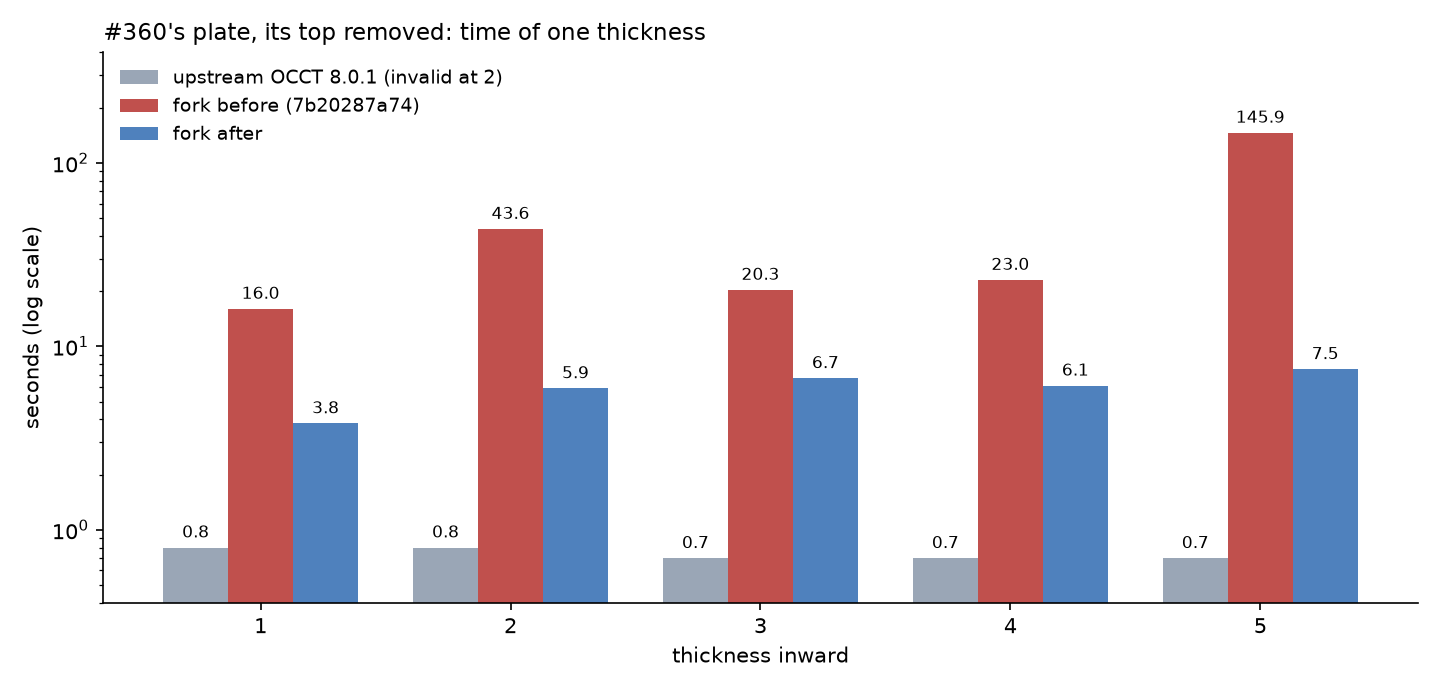
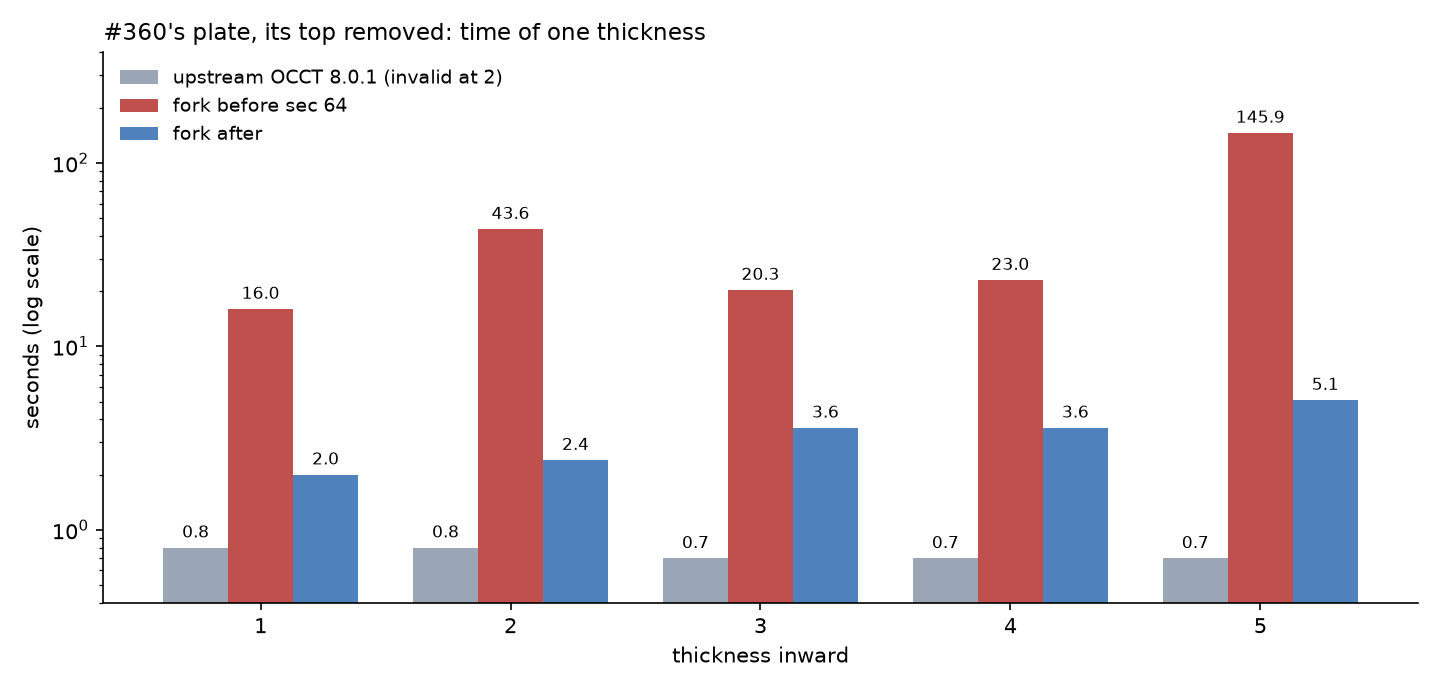
thickness: sec 64 -- edges far apart not measured; #360's row brought up to date
Claude-Session: https://claude.ai/code/session_0178dkVm1ZJ8WVXpnUnXLoWz

diff --git a/thickness/pictures/mkpage.py b/thickness/pictures/mkpage.py
@@ -81,7 +81,7 @@ SUMMARY = {
     60: "#360's plate, square holes 4.3 apart and 2.5 from its outline, the top removed 4 inward: refused, as every plate whose holes are nearer each other or the outline than twice the thickness. There the offsets of a wall's two sides pass each other and the strip between is no pocket, which the edges' orientations say and the loops never read. A thick solid with no valid answer is made once more with the wires of planar faces taken by the way their edges run; that answer is kept only where it is valid and crosses itself nowhere.",
     61: "Four square holes in a square, the walls between them thinner than twice the thickness both ways, and #360's plate 2 inward: both refused, by two faults in sec 60's second way. The rounded corners between walls are cylinders, which it left to the search, and a corner handed its wall the wrong piece of the edge they share; and the point that tells whether a region lies within the removed face was taken off a chord, which beside a rounded corner lies on the arc's other side. Cylinders taken less than a turn round are read by regions too, and the point is taken off the edge itself.",
     62: "Round holes nearer each other, or the outline, than twice the thickness: invalid, where upstream is right. A round hole's wall is a whole cylinder with its seam, which sec 60's second way did not read. It does now: a region runs on across the seam, and where the face lies along the seam it is parted there. And a cut point given a whole turn off its edge's range, on a circle two sections share, is brought onto the edge. Ten plates with round holes, each to upstream's volume to the digit.",
-    63: "#360's plate 5 inward, half its thickness: refused. Where a hole corner's offset meets the removed top it leaves an arc, which the corner's own face took whole and the top's rim cut in two. The record of what the arc became then held the arc and both pieces, the corner took all three, and with its top edge twice over the whole offset came apart. The pieces now take the place of the edge whole. Mended, that let through a result it had held back by accident: a cylinder with a slot, the slot's ceiling removed outward, a closed shell of negative volume (upstream gives the input back, invalid). A thick solid of negative volume, with a face removed, is now refused, and the second way makes the right one. Upstream makes the plate, to the same volume. The figure is sec 64's: the search that gave up on this plate after two minutes and 5 GB is no longer begun where it will run out of steps, and the plate takes 8 s, not 146; no result changes.",
+    63: "#360's plate 5 inward, half its thickness: refused. Where a hole corner's offset meets the removed top it leaves an arc, which the corner's own face took whole and the top's rim cut in two. The record of what the arc became then held the arc and both pieces, the corner took all three, and with its top edge twice over the whole offset came apart. The pieces now take the place of the edge whole. Mended, that let through a result it had held back by accident: a cylinder with a slot, the slot's ceiling removed outward, a closed shell of negative volume (upstream gives the input back, invalid). A thick solid of negative volume, with a face removed, is now refused, and the second way makes the right one. Upstream makes the plate, to the same volume. The figure is sec 64's: the search that gave up on this plate after two minutes and 5 GB is no longer begun where it will run out of steps, and edges far apart are no longer measured against each other; the plate takes 5 s, not 146, and no result changes.",
 }
 
 # Pictures of a section made by make_fix_pictures.sh (a C++ driver of the fix,

diff --git a/thickness/pictures/search_time.py b/thickness/pictures/search_time.py
@@ -16,13 +16,13 @@ import matplotlib.pyplot as plt
 DEPTHS = ["1", "2", "3", "4", "5"]
 UPSTREAM = [0.8, 0.8, 0.7, 0.7, 0.7]
 BEFORE = [16.0, 43.6, 20.3, 23.0, 145.9]
-AFTER = [3.8, 5.9, 6.7, 6.1, 7.5]
+AFTER = [2.0, 2.4, 3.6, 3.6, 5.1]
 
 fig, ax = plt.subplots(figsize=(9.6, 4.6), dpi=150)
 width = 0.26
 xs = range(len(DEPTHS))
 series = (("upstream OCCT 8.0.1 (invalid at 2)", UPSTREAM, "#9aa6b6"),
-          ("fork before (7b20287a74)", BEFORE, "#c0504d"),
+          ("fork before sec 64", BEFORE, "#c0504d"),
           ("fork after", AFTER, "#4f81bd"))
 for k, (label, values, color) in enumerate(series):
     bars = ax.bar([x + (k - 1) * width for x in xs], values, width, label=label, color=color)

diff --git a/occ-issues/README.md b/occ-issues/README.md
@@ -55,7 +55,7 @@ the table above come first:
 | 309 | fixed (see above) |
 | 333 | no crash; Sketch006 "No planar face in AttachEngine3D" (its support remapped to a curved face) |
 | 334 | no crash; Draft003 invalid, Body invalid. Draft001 and Draft003, recomputed alone, are **refused now** (`ca766a8a92`): a drafted ledge whose corner a bevel touches needs a new edge, which a draft cannot make, and it gave an invalid shape; see `../draft/` |
-| 360 | not finished: the recompute ran 25 min and the scan was stopped for memory on the 8 GB box. **Fillet008's spike fixed** (2026-10-23 check): made since `fb9200b0fd`, upstream 8.0.1 still makes it; the stored `Pad016` has a vertex at tolerance 37.2 (old build), recomputed now 1e-7. `../fillet/`, "#360" **Rescan 2026-11-10**: the document's `Thickness` (the plate `Mirrored`, 10 thick with square holes 4.3 apart and 2.5 from the outline, Face5 removed, 4 inward, the Arc join, Intersection on) was refused by the fork; the stored shape and upstream's 8.0.1 are 38747.1395. The chain's first commit breaks it (bisected), and with it every plate whose holes are nearer each other, or the outline, than twice the thickness. **Fixed**: made once more with the loops' wires taken by the way their edges run where the first way has no valid answer -- 38747.1395, as stored (`../thickness/`, sec 60). Left there: the same plate 2 inward, refused |
+| 360 | not finished: the recompute ran 25 min and the scan was stopped for memory on the 8 GB box. **Fillet008's spike fixed** (2026-10-23 check): made since `fb9200b0fd`, upstream 8.0.1 still makes it; the stored `Pad016` has a vertex at tolerance 37.2 (old build), recomputed now 1e-7. `../fillet/`, "#360" **Rescan 2026-11-10**: the document's `Thickness` (the plate `Mirrored`, 10 thick with square holes 4.3 apart and 2.5 from the outline, Face5 removed, 4 inward, the Arc join, Intersection on) was refused by the fork; the stored shape and upstream's 8.0.1 are 38747.1395. The chain's first commit breaks it (bisected), and with it every plate whose holes are nearer each other, or the outline, than twice the thickness. **Fixed**: made once more with the loops' wires taken by the way their edges run where the first way has no valid answer -- 38747.1395, as stored (`../thickness/`, sec 60). **2026-11-11**: the same plate is made 2, 3 and 5 inward too (33213.1056, 36527.3399, 40288.2902; sec 61 and 63), and in 4 to 8 s where it took 20 to 146 (sec 64; upstream takes under a second, and is invalid at 2) |
 | 474 | no crash; Fillet003 and four sketches in error **Rescan 2026-10-25** (`d602360242`): Fillet, Fillet001, Fillet002 valid; Fillet003 errs because its edge reference is lost (`?Edge41`), Sketch017's attachment failing upstream ("No planar face") -- a document error, not the fillet's; on its stored base it is a suite case (`../fillet/`). |
 | 523 | Fillet invalid -- **fixed**, `../fillet/` |
 | 631 | valid (10005.3404, alt 42806.4887): wrong-but-valid needs a geometric check. **Fixed** (2026-10-24, `2bde18d4b5`): the Fillet (15, the loft-pad joint, `Edge18` of the loft) bulged out of the pad's side -- its end on the loft's side, a plane made a B-spline, lay past the B-spline's bounds and went to a plate; now 9919.5607, the volume of the loft with plane faces. The alt document (four fillets, r 39 to 49, on an S-bent bar's bends) is unchanged, 42806.4889, and renders clean. `../fillet/`, "A face's B-spline bounds" **2026-11-09**: chamfers on the arm (Fillet002's input) refused at every size where the fillet was made, and wrong where made (0.52 to 1.37 wide at 0.8): the chamfer's guide was bent off the edge by the adjustment of its other end (`1420e35a51`). `../fillet/`, "A chamfer's guide bent at its other end" |

diff --git a/thickness/README.md b/thickness/README.md
@@ -2733,22 +2733,34 @@ made between the starts, and take part in which edges are started along.)
 
 | #360's plate, top removed | before | after | memory before | after | upstream |
 |---|---|---|---|---|---|
-| 1 inward | 16.0 s | 3.8 s | 0.5 GB | 46 MB | 0.8 s |
-| 2 inward | 43.6 s | 5.9 s | 2.4 GB | 42 MB | 0.8 s, invalid |
-| 3 inward | 20.3 s | 6.7 s | 1.7 GB | 42 MB | 0.7 s |
-| 4 inward | 23.0 s | 6.1 s | 1.8 GB | 43 MB | 0.7 s |
-| 5 inward | 145.9 s | 7.5 s | 5.2 GB | 45 MB | 0.7 s |
+| 1 inward | 16.0 s | 2.0 s | 0.5 GB | 46 MB | 0.8 s |
+| 2 inward | 43.6 s | 2.4 s | 2.4 GB | 42 MB | 0.8 s, invalid |
+| 3 inward | 20.3 s | 3.6 s | 1.7 GB | 42 MB | 0.7 s |
+| 4 inward | 23.0 s | 3.6 s | 1.8 GB | 43 MB | 0.7 s |
+| 5 inward | 145.9 s | 5.1 s | 5.2 GB | 45 MB | 0.7 s |
 
 Each run alone on the dev box, `corpus/tools/thk` (Arc join, intersection
 on); "before" is the libraries of `5110153daf` preloaded for 1 to 4 and
 the fork at `7b20287a74` for 5, upstream its libraries preloaded and
 checked with `ldd`. `pictures/search_time.py` draws the figure.
 
-What is left of the time is the first way run to its end (the walk by
-angle's own failures, 3 s of loops) and the second way after it; upstream
-is still eight times faster on this plate.
+The search alone brought these to 3.8, 5.9, 6.7, 6.1 and 7.5 s
+(`0beda9ad94`). The rest is a second change (`f35d92d6ef`): two passes of
+`BRepAlgo_Loop::Perform` take every edge of the face against every other
+(`BRepExtrema_DistShapeShape`, for crossings with no vertex) and every
+vertex against every edge (a projection) -- tens of thousands of each on
+the plate's top, nearly all between things nowhere near each other. A
+piece of a line or of a circle has an exact box: two such edges whose
+boxes, their vertices in them, are farther apart than the tolerance, and
+a vertex farther from an edge's box than its own tolerance, are not
+measured. Other curves are, as before.
 
-**Regression** (`0beda9ad94`, on Linux): thickness PASS=658, nothing marked
+What is left is the first way run to its end, its walk by angle failing
+on the pieces that lie over each other, and the second way after it;
+upstream is still three to seven times faster on this plate.
+
+**Regression** (`0beda9ad94` and `f35d92d6ef`, each, on Linux): thickness
+PASS=658, nothing marked
 known broken, at fix levels 0, 1, 2 and 3, and frozen at 3, every line as
 before; the thickness sweep right in all 928 runs and the same line for
 line; the corpus (1072 runs) as its baseline; fillet PASS=824 XFAIL=1,

diff --git a/thickness/models/Thickness.md b/thickness/models/Thickness.md
@@ -3563,11 +3563,16 @@ XFAIL, boolean 67, draft 104 + 1 FAIL.
 - The same paths are walked first by number, counting the same steps and
   making no wire; a search that will run out is not begun.
 
-The plate now takes 4 to 8 s at 1 to 5 inward, and 45 MB.
+- Two passes that measure every edge against every other, and every
+  vertex against every edge, skip those whose exact boxes (lines and arcs)
+  are farther apart than the tolerance.
+
+The plate now takes 2 to 5 s at 1 to 5 inward, and 45 MB.
 
 ![issue360_plate_search_time](pictures/issue360_plate_search_time.png)
 
-Regression (`0beda9ad94`, Linux): thickness PASS=658 at fix levels 0 to 3,
+Regression (`0beda9ad94` and `f35d92d6ef`, Linux): thickness PASS=658 at fix
+levels 0 to 3,
 frozen at 3; sweep 928 of 928, the same line for line; the corpus as its
 baseline; fillet 824 + 1 XFAIL, boolean 67, draft 104 + 1 FAIL; FreeCAD's
 Python suite 4359 OK.
